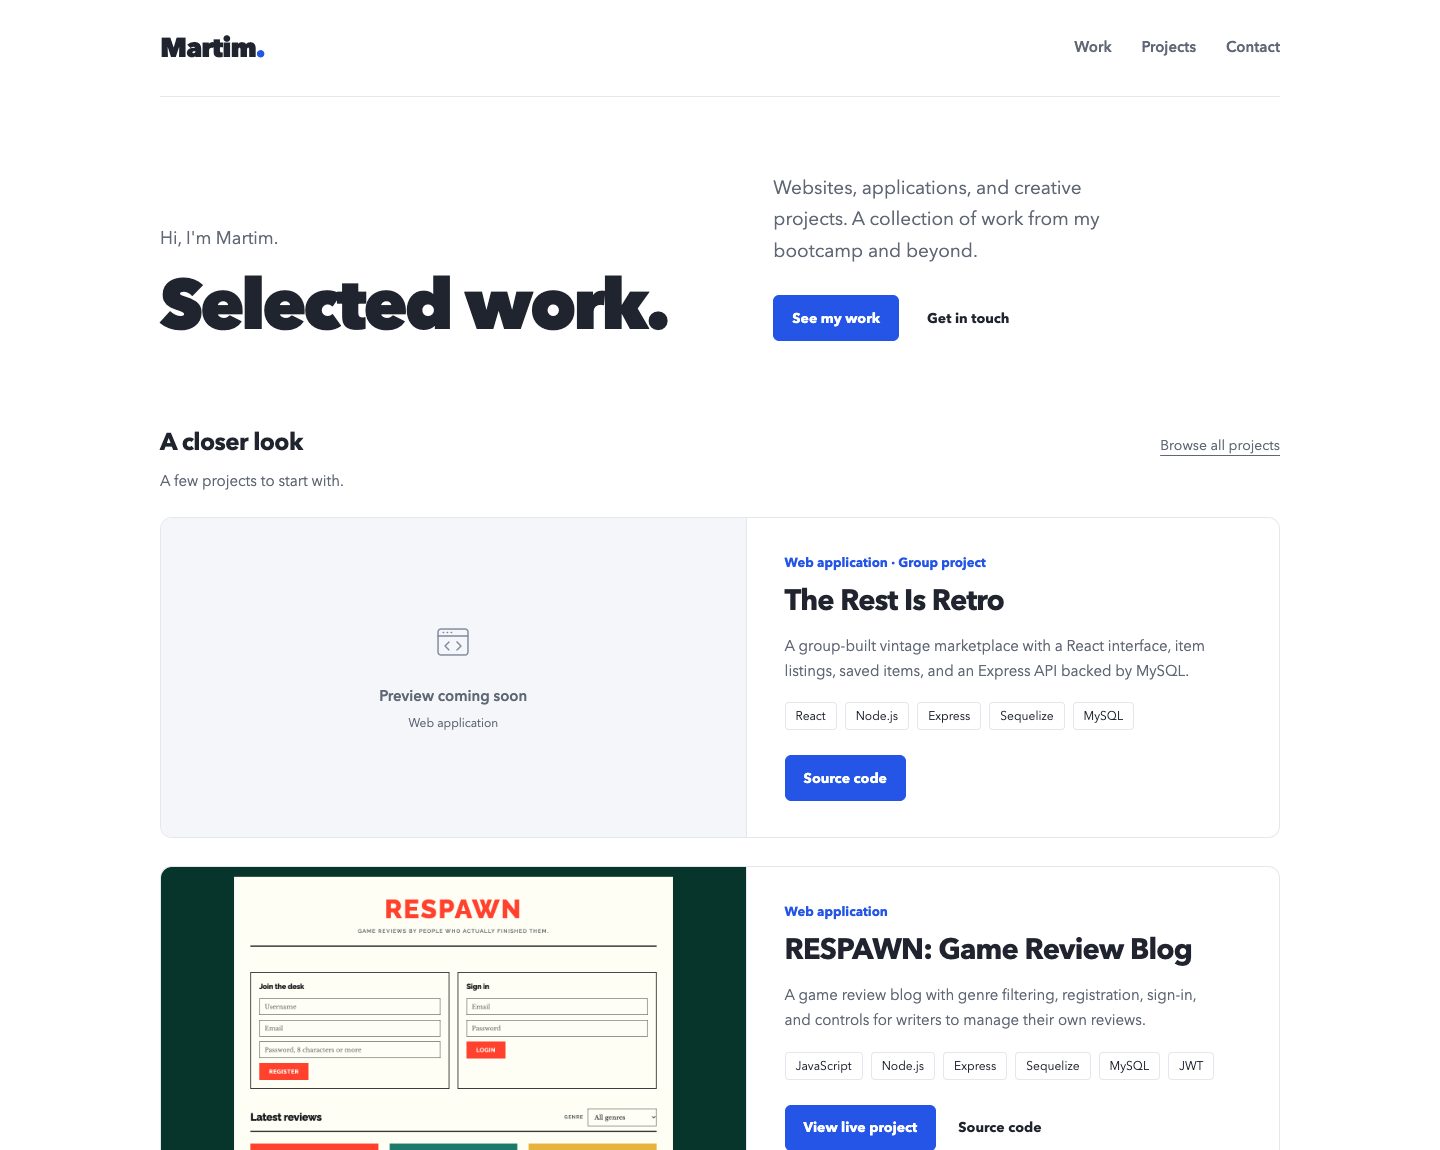
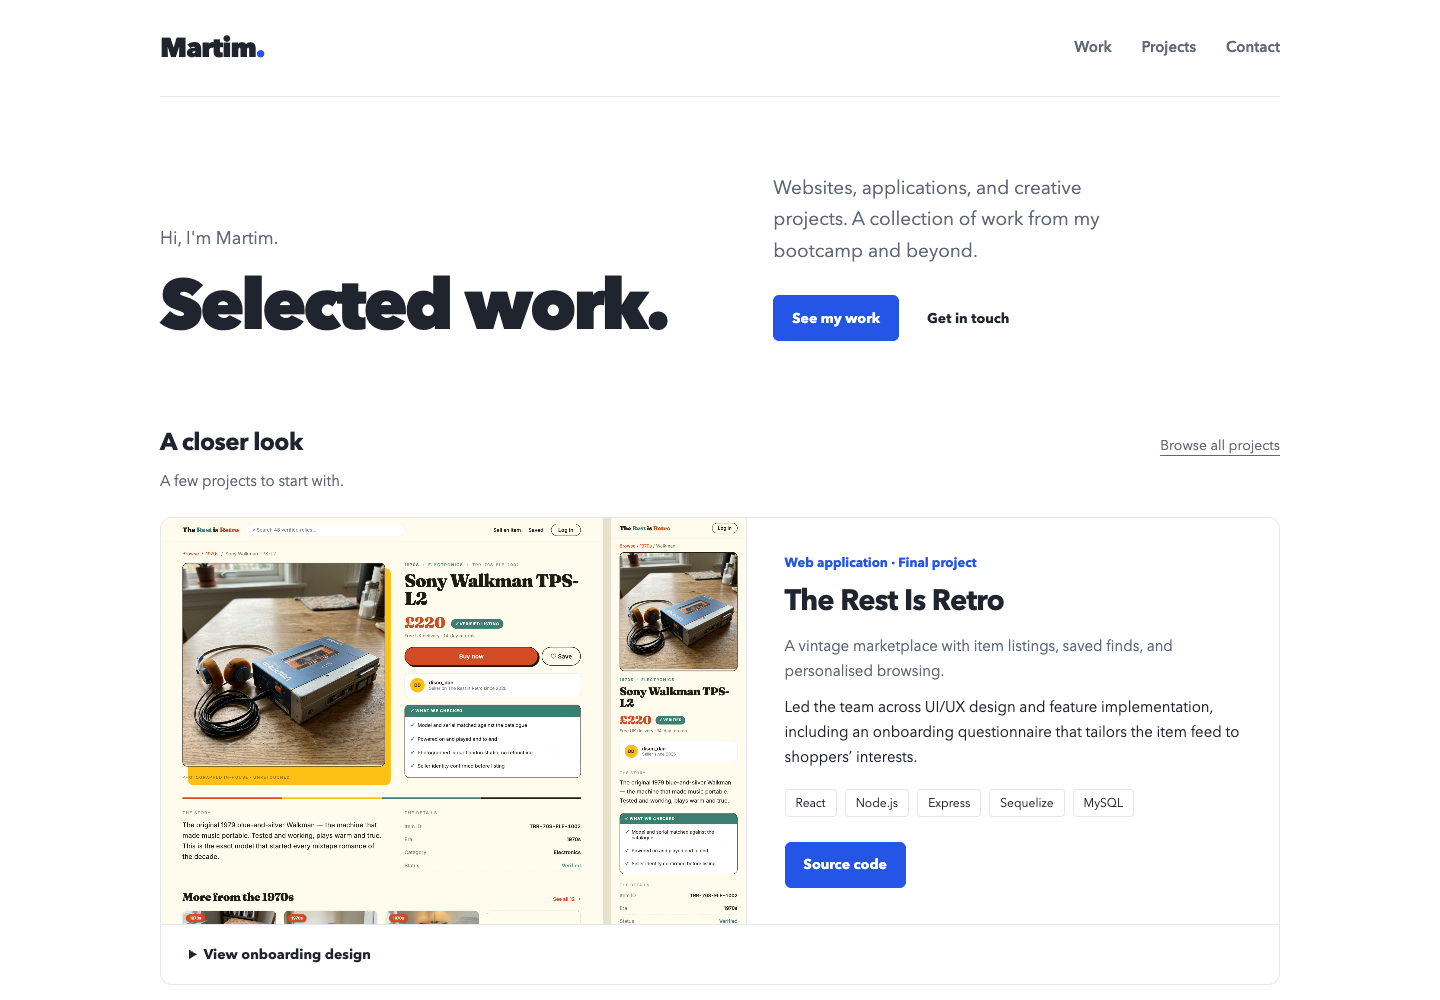
feat: showcase project leadership and Retro onboarding designs

diff --git a/src/components/ProjectCard.jsx b/src/components/ProjectCard.jsx
@@ -11,15 +11,16 @@ export default function ProjectCard({ project, headingLevel = 2, compact = false
               <rect x="5" y="7" width="30" height="26" rx="3" stroke="currentColor" strokeWidth="1.5" />
               <path d="M5 14h30M10 10.5h1m3 0h1m3 0h1M16 20l-4 4 4 4m8-8 4 4-4 4" stroke="currentColor" strokeWidth="1.5" strokeLinecap="round" strokeLinejoin="round" />
             </svg>
-            <p>Preview coming soon</p>
+            <p>{project.type === 'Developer tool' ? 'Command-line tool' : 'Preview coming soon'}</p>
             <span>{project.type}</span>
           </div>
         )}
       </div>
       <div className="project-content">
-        <p className="project-kind">{project.type}{project.groupProject && ' · Group project'}</p>
+        <p className="project-kind">{project.type}{project.badge ? ` · ${project.badge}` : project.groupProject && ' · Group project'}</p>
         <Heading className="project-title" id={`title-${project.id}`}>{project.title}</Heading>
         <p className="project-description">{project.description}</p>
+        {project.contribution && <p className="project-contribution">{project.contribution}</p>}
         <ul className="technology-tags" aria-label="Technologies">
           {project.technologies.map((technology) => <li key={technology}>{technology}</li>)}
         </ul>
@@ -31,6 +32,19 @@ export default function ProjectCard({ project, headingLevel = 2, compact = false
           ))}
         </div>
       </div>
+      {project.gallery && (
+        <details className="project-gallery">
+          <summary>View onboarding design</summary>
+          <div className="gallery-images">
+            {project.gallery.map((item) => (
+              <figure key={item.image}>
+                <img src={item.image} alt={item.alt} loading="lazy" />
+                <figcaption>{item.caption}</figcaption>
+              </figure>
+            ))}
+          </div>
+        </details>
+      )}
     </article>
   );
 }

diff --git a/src/styles.css b/src/styles.css
@@ -116,3 +116,13 @@ html { scroll-padding-top: 24px; }
   .filter-bar select { min-width: 145px; }
   .filter-bar p { width: 100%; margin-left: 0; }
 }
+
+.project-contribution { margin-top: 12px; font-size: 15px; line-height: 1.65; }
+.project-gallery { grid-column: 1 / -1; border-top: 1px solid var(--line); padding: 20px 28px; }
+.project-gallery summary { cursor: pointer; font-size: 14px; font-weight: 650; }
+.project-gallery summary:focus-visible { outline: 3px solid var(--accent); outline-offset: 5px; }
+.gallery-images { display: grid; grid-template-columns: repeat(2, minmax(0, 1fr)); gap: 24px; margin-top: 24px; }
+.gallery-images figure { margin: 0; }
+.gallery-images img { width: 100%; height: auto; display: block; border: 1px solid var(--line); }
+.gallery-images figcaption { margin-top: 12px; font-size: 13px; color: var(--muted); line-height: 1.5; }
+@media (max-width: 600px) { .gallery-images { grid-template-columns: 1fr; } }
